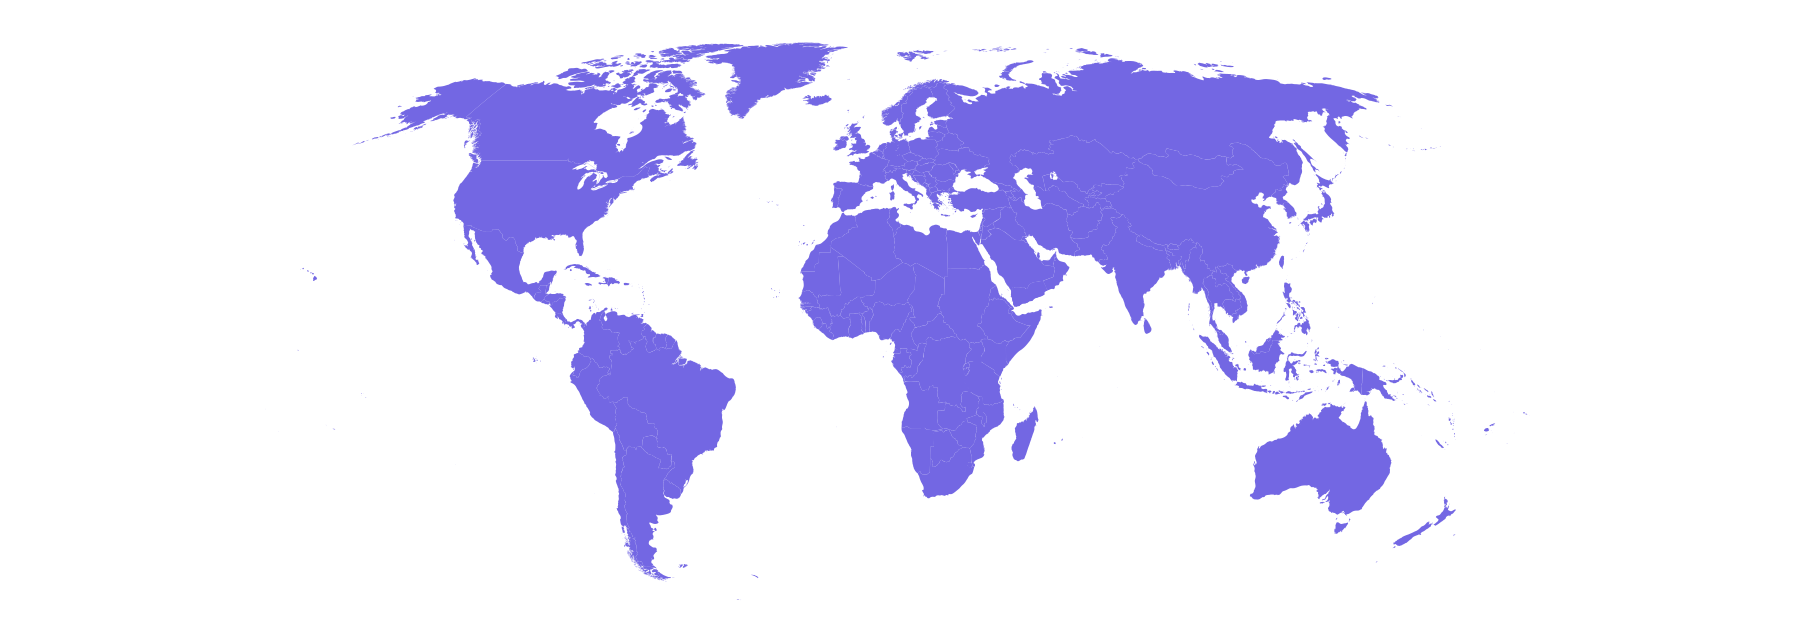
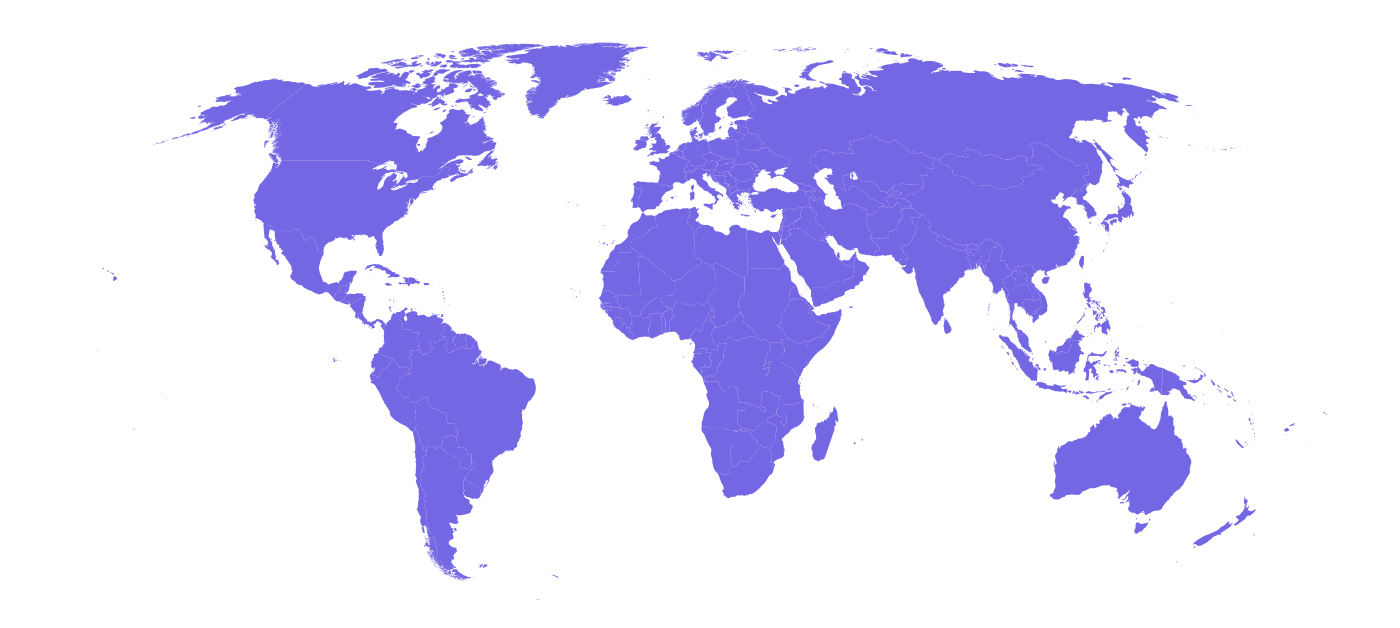
fix some responsive issues

diff --git a/index.html b/index.html
@@ -55,7 +55,7 @@
     <section class="home-section" id="home">
       <div class="container">
         <div class="row justify-content-between">
-          <div class="col-6">
+          <div class="col-lg-6 d-flex justify-content-center flex-column">
             <h1 class="header">
               Engineered to make<br />data science explainable,<br />repeatable,
               &amp; scalable.
@@ -71,7 +71,7 @@
               ><a href="#" class="btn btn-secondary">Try Demo</a>
             </div>
           </div>
-          <div class="col-6 d-flex align-items-center">
+          <div class="col-lg-6 d-none d-lg-flex align-items-center">
             <img src="img/head.png" alt="G" class="illustration" />
           </div>
         </div>
@@ -92,7 +92,7 @@
         </div>
 
         <div class="row">
-          <div class="col-4">
+          <div class="col-lg-4">
             <div class="card">
               <img
                 src="img/data-processing.png"
@@ -107,7 +107,7 @@
             </div>
           </div>
 
-          <div class="col-4">
+          <div class="col-lg-4">
             <div class="card">
               <img
                 src="img/data-analyzing.png"
@@ -122,7 +122,7 @@
             </div>
           </div>
 
-          <div class="col-4">
+          <div class="col-lg-4">
             <div class="card">
               <img
                 src="img/data-validation.png"
@@ -142,12 +142,12 @@
 
     <section class="about-section" id="about">
       <div class="container">
-        <div class="row">
-          <div class="col">
+        <div class="row align-items-center">
+          <div class="col-md-6">
             <img src="img/about-us.png" alt="About Us" class="illustration" />
           </div>
 
-          <div class="col">
+          <div class="col-md-6">
             <h2 class="header">What We Do</h2>
             <ol>
               <li>
@@ -173,57 +173,67 @@
 
     <section class="package-section popups-section">
       <div class="container">
-        <h2 class="header text-center">Choose A Package</h2>
-        <p class="description text-center">Tailored to your need</p>
-        <div class="card-wrapper">
-          <div class="card-2 card-basic text-center">
-            <div class="card-header">
-              <h5>BASIC</h5>
-              <h4 class="price">Rp. 100.000/BLN</h4>
-            </div>
-            <div class="card-body">
-              <h6>
-                <hr />
-                PLAN
-                <hr />
-              </h6>
-              <span>Lorem, ipsum.</span><span>Ullam, excepturi.</span
-              ><span>Obcaecati, dolorem.</span><span>Unde, vero?</span
-              ><button class="btn btn-small btn-gradient">Buy Now</button>
+        <div class="row">
+          <div class="col">
+            <h2 class="header text-center">Choose A Package</h2>
+            <p class="description text-center">Tailored to your need</p>
+          </div>
+        </div>
+        <div class="row">
+          <div class="col-lg-4">
+            <div class="card-2 card-basic text-center">
+              <div class="card-header">
+                <h5>BASIC</h5>
+                <h4 class="price">Rp. 100.000/BLN</h4>
+              </div>
+              <div class="card-body">
+                <h6>
+                  <hr />
+                  PLAN
+                  <hr />
+                </h6>
+                <span>Lorem, ipsum.</span><span>Ullam, excepturi.</span
+                ><span>Obcaecati, dolorem.</span><span>Unde, vero?</span
+                ><button class="btn btn-small btn-gradient">Buy Now</button>
+              </div>
             </div>
           </div>
 
-          <div class="card-2 card-premium text-center">
-            <div class="card-header">
-              <h5>PREMIUM</h5>
-              <h4 class="price">Rp. 200.000/BLN</h4>
-            </div>
-            <div class="card-body">
-              <h6>
-                <hr />
-                PLAN
-                <hr />
-              </h6>
-              <span>Lorem, ipsum.</span><span>Officia, voluptatem.</span
-              ><span>Incidunt, maxime!</span><span>Perspiciatis, quae.</span
-              ><button class="btn btn-small btn-gradient">Buy Now</button>
+          <div class="col-lg-4">
+            <div class="card-2 card-premium text-center">
+              <div class="card-header">
+                <h5>PREMIUM</h5>
+                <h4 class="price">Rp. 200.000/BLN</h4>
+              </div>
+              <div class="card-body">
+                <h6>
+                  <hr />
+                  PLAN
+                  <hr />
+                </h6>
+                <span>Lorem, ipsum.</span><span>Officia, voluptatem.</span
+                ><span>Incidunt, maxime!</span><span>Perspiciatis, quae.</span
+                ><button class="btn btn-small btn-gradient">Buy Now</button>
+              </div>
             </div>
           </div>
 
-          <div class="card-2 card-enterprise text-center">
-            <div class="card-header">
-              <h5>ENTERPRISE</h5>
-              <h4 class="price">Rp. 300.000/BLN</h4>
-            </div>
-            <div class="card-body">
-              <h6>
-                <hr />
-                PLAN
-                <hr />
-              </h6>
-              <span>Lorem, ipsum.</span><span>Aliquam, atque.</span
-              ><span>Aliquam, vel!</span><span>Pariatur, recusandae.</span
-              ><button class="btn btn-small btn-gradient">Buy Now</button>
+          <div class="col-lg-4">
+            <div class="card-2 card-enterprise text-center">
+              <div class="card-header">
+                <h5>ENTERPRISE</h5>
+                <h4 class="price">Rp. 300.000/BLN</h4>
+              </div>
+              <div class="card-body">
+                <h6>
+                  <hr />
+                  PLAN
+                  <hr />
+                </h6>
+                <span>Lorem, ipsum.</span><span>Aliquam, atque.</span
+                ><span>Aliquam, vel!</span><span>Pariatur, recusandae.</span
+                ><button class="btn btn-small btn-gradient">Buy Now</button>
+              </div>
             </div>
           </div>
         </div>
@@ -239,7 +249,7 @@
         </div>
 
         <div class="row justify-content-center">
-          <div class="col-8">
+          <div class="col-lg-8">
             <form action="" class="contact-form">
               <input type="email" placeholder="Enter email address" />
               <button type="submit">Try it for free</button>

diff --git a/css/style.css b/css/style.css
@@ -129,18 +129,17 @@ section .description {
 
 /* ================== Header ================== */
 .home-section {
-  --margin-top: 4em;
+  --margin-top: 4.5em;
   margin-top: var(--margin-top);
-  display: flex;
-  justify-content: center;
-  align-items: center;
   min-height: calc(100vh - var(--margin-top));
+
+  display: flex;
+  align-items: center;
 }
 
 .home-section .header {
   color: var(--black);
   line-height: 1.2;
-  margin-top: 2em;
 }
 
 .home-section .description {
@@ -168,7 +167,19 @@ section .description {
   object-fit: contain;
 }
 
+.service-section .card {
+  margin-bottom: 1em;
+}
+
 /* ================== About ================== */
+.about-section .row {
+  row-gap: 2em;
+}
+
+.about-section ol {
+  margin-left: 1.1em;
+}
+
 .about-section li {
   margin: 1.5em 0;
   line-height: 1.8;
@@ -180,10 +191,8 @@ section .description {
 }
 
 /* ================== Package ================== */
-.card-wrapper {
-  display: flex;
-  gap: 1.8em;
-  justify-content: center;
+.package-section .card-2 {
+  margin-bottom: 1em;
 }
 
 .package-section .card-header {
@@ -244,14 +253,20 @@ section .description {
 
 /* ================== Contact ================== */
 .contact-section {
+  --package-section-radius: 15vw;
+  padding-top: var(--package-section-radius);
+  margin-top: calc(var(--package-section-radius) * -1);
+
   background-color: var(--primary);
   color: #fff;
-  padding-top: 10em;
-  margin-top: -10em;
+  padding-bottom: 0;
+}
+
+.contact-section .container {
   padding-bottom: 10em;
 
   background-image: url("../img/worldmap.png");
-  background-position: bottom;
+  background-position: center;
   background-repeat: no-repeat;
   background-size: contain;
 }
@@ -277,6 +292,7 @@ section .description {
 
 .contact-form input {
   flex: auto;
+  min-width: 50%;
   background-color: var(--bright-gray);
   color: var(--black);
   caret-color: var(--primary);

diff --git a/css/utils.css b/css/utils.css
@@ -46,8 +46,8 @@
 
 .popups-section {
   background-color: #fff;
-  border-radius: 150px;
-  padding: 100px 0 200px;
+  border-radius: 15vw;
+  padding: 100px 0 10vw;
   box-shadow: 0 10px 60px -20px var(--primary-alpha);
 
   position: relative;
@@ -87,7 +87,7 @@
     var(--gradient-3)
   );
   color: #fff;
-  transform: translateY(1em);
+  transform: translateY(0.5em);
   box-shadow: 0 10px 40px var(--primary-alpha);
 }
 
@@ -112,7 +112,7 @@
 }
 
 .card-2:hover {
-  transform: scale(1.2);
+  transform: scale(1.05);
 }
 
 .card-2 .card-header {
